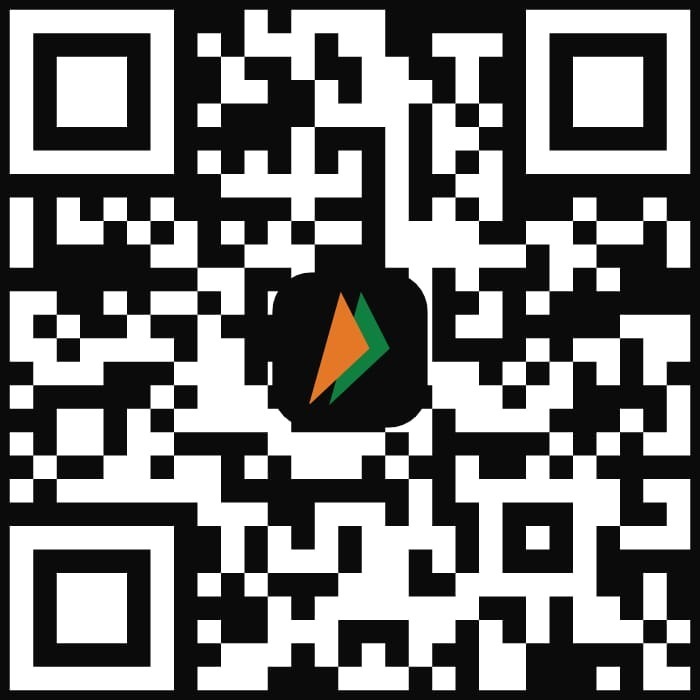
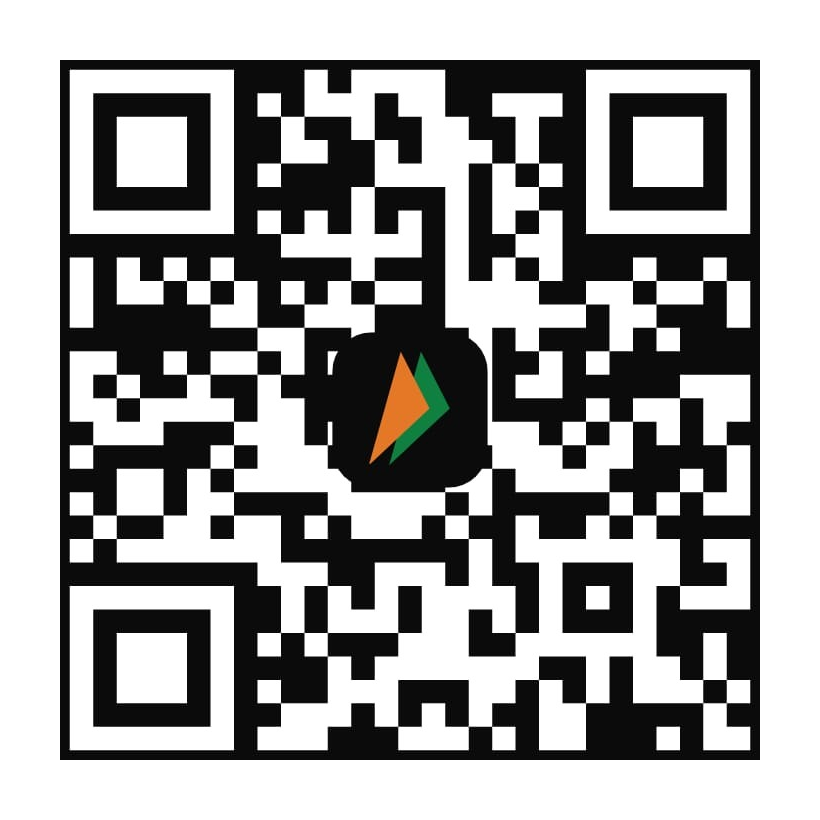
feat: in-bot payment & QR management, removed warning text, added QR padding

diff --git a/handlers/admin.py b/handlers/admin.py
@@ -7,6 +7,7 @@ from aiogram.types import CallbackQuery, Message
 from aiogram.filters import Command
 from aiogram.fsm.context import FSMContext
 from aiogram.exceptions import TelegramForbiddenError, TelegramBadRequest, TelegramRetryAfter
+from PIL import Image, ImageOps
 from config import config
 from database import (
     approve_order,
@@ -21,13 +22,16 @@ from database import (
     toggle_service_status,
     delete_service,
     get_all_users,
-    get_connection
+    get_connection,
+    get_setting,
+    set_setting
 )
-from states.order_states import AddServiceFlow, EditServiceFlow, BroadcastFlow
+from states.order_states import AddServiceFlow, EditServiceFlow, BroadcastFlow, EditPaymentFlow
 from keyboards.admin_keyboards import (
     get_admin_verification_keyboard,
     get_admin_rejection_reasons_keyboard,
     get_admin_dashboard_keyboard,
+    get_payment_settings_keyboard,
     get_services_management_keyboard,
     get_service_actions_keyboard,
     get_broadcast_confirm_keyboard,
@@ -245,12 +249,14 @@ async def handle_admin_panel(message: Message, state: FSMContext):
         await message.reply("⛔ You are not authorized to access the admin panel.")
         return
 
+    upi_id = await get_setting("upi_id", config.UPI_ID)
     text = (
         "🛠 **ADMIN CONTROL DASHBOARD**\n"
         "━━━━━━━━━━━━━━━━━━━━\n"
-        "Manage your services, change pricing or delivery content, "
-        "send broadcasts to all users, or view real-time revenue stats.\n\n"
-        "👇 **Select an action below:**"
+        f"📲 **Current Active UPI:** `{upi_id}`\n\n"
+        "👇 **Select an option to manage:**\n"
+        "1⃣ **Payment Method & QR Code** — Change UPI ID or QR image\n"
+        "2⃣ **Services Catalog** — Add/edit services, pricing & delivery links"
     )
     await message.reply(text, reply_markup=get_admin_dashboard_keyboard(), parse_mode="Markdown")
 
@@ -262,14 +268,163 @@ async def nav_dashboard(query: CallbackQuery, state: FSMContext):
         return
 
     await query.answer()
+    upi_id = await get_setting("upi_id", config.UPI_ID)
     text = (
         "🛠 **ADMIN CONTROL DASHBOARD**\n"
         "━━━━━━━━━━━━━━━━━━━━\n"
-        "Manage your services, change pricing or delivery content, "
-        "send broadcasts to all users, or view real-time revenue stats.\n\n"
-        "👇 **Select an action below:**"
+        f"📲 **Current Active UPI:** `{upi_id}`\n\n"
+        "👇 **Select an option to manage:**\n"
+        "1⃣ **Payment Method & QR Code** — Change UPI ID or QR image\n"
+        "2⃣ **Services Catalog** — Add/edit services, pricing & delivery links"
     )
     await query.message.edit_text(text, reply_markup=get_admin_dashboard_keyboard(), parse_mode="Markdown")
+
+# ==========================================
+# PAYMENT SETTINGS MANAGEMENT (UPI & QR)
+# ==========================================
+
+@admin_router.callback_query(F.data == "admin_nav:payment_settings")
+async def nav_payment_settings(query: CallbackQuery, state: FSMContext):
+    await state.clear()
+    if not is_admin_authorized(query.from_user.id):
+        await query.answer("⛔ Unauthorized", show_alert=True)
+        return
+
+    await query.answer()
+    upi_id = await get_setting("upi_id", config.UPI_ID)
+    upi_name = await get_setting("upi_name", config.UPI_NAME)
+    qr_path = await get_setting("qr_image_path", config.QR_IMAGE_PATH)
+    qr_exists = "✅ File Active" if os.path.exists(qr_path) else "⚠ File Missing"
+
+    text = (
+        "💳 **PAYMENT METHODS & QR SETTINGS**\n"
+        "━━━━━━━━━━━━━━━━━━━━\n"
+        f"📲 **UPI ID:** `{upi_id}`\n"
+        f"👤 **Payee Name:** {upi_name}\n"
+        f"🖼 **QR Image:** {qr_exists} (`{qr_path}`)\n"
+        "━━━━━━━━━━━━━━━━━━━━\n"
+        "Select what you want to update:"
+    )
+    await query.message.edit_text(text, reply_markup=get_payment_settings_keyboard(), parse_mode="Markdown")
+
+@admin_router.callback_query(F.data == "admin_pay:change_upi")
+async def start_change_upi(query: CallbackQuery, state: FSMContext):
+    if not is_admin_authorized(query.from_user.id):
+        await query.answer("⛔ Unauthorized", show_alert=True)
+        return
+
+    await state.set_state(EditPaymentFlow.waiting_for_upi_id)
+    await query.answer()
+    text = (
+        "🔄 **CHANGE UPI ID**\n"
+        "━━━━━━━━━━━━━━━━━━━━\n"
+        "Please send the new UPI ID (e.g. `yourname@okhdfcbank` or `9876543210@upi`):"
+    )
+    await query.message.edit_text(text, reply_markup=get_cancel_admin_flow_keyboard(), parse_mode="Markdown")
+
+@admin_router.message(EditPaymentFlow.waiting_for_upi_id, F.text)
+async def finish_change_upi(message: Message, state: FSMContext):
+    new_upi = message.text.strip()
+    if "@" not in new_upi or len(new_upi) < 5:
+        await message.reply("⚠ Invalid UPI ID format. It should look like `username@bank` or `number@upi`. Please try again:")
+        return
+
+    await set_setting("upi_id", new_upi)
+    config.UPI_ID = new_upi
+
+    # Persist to .env if present
+    try:
+        if os.path.exists(".env"):
+            with open(".env", "r", encoding="utf-8") as f:
+                env_text = f.read()
+            if "UPI_ID=" in env_text:
+                env_text = re.sub(r"UPI_ID=.*", f"UPI_ID={new_upi}", env_text)
+            else:
+                env_text += f"\nUPI_ID={new_upi}\n"
+            with open(".env", "w", encoding="utf-8") as f:
+                f.write(env_text)
+    except Exception as e:
+        print(f"Could not update .env with new UPI_ID: {e}")
+
+    await state.clear()
+    await message.reply(
+        f"✅ **UPI ID updated successfully!**\nNew UPI ID: `{new_upi}`\n\nAll future customer orders will now display this UPI ID.",
+        reply_markup=get_admin_dashboard_keyboard(),
+        parse_mode="Markdown"
+    )
+
+@admin_router.callback_query(F.data == "admin_pay:change_name")
+async def start_change_name(query: CallbackQuery, state: FSMContext):
+    if not is_admin_authorized(query.from_user.id):
+        await query.answer("⛔ Unauthorized", show_alert=True)
+        return
+
+    await state.set_state(EditPaymentFlow.waiting_for_payee_name)
+    await query.answer()
+    text = (
+        "👤 **CHANGE PAYEE / MERCHANT NAME**\n"
+        "━━━━━━━━━━━━━━━━━━━━\n"
+        "Please send the new Payee Name (e.g. `My Store` or `John Doe`):"
+    )
+    await query.message.edit_text(text, reply_markup=get_cancel_admin_flow_keyboard(), parse_mode="Markdown")
+
+@admin_router.message(EditPaymentFlow.waiting_for_payee_name, F.text)
+async def finish_change_name(message: Message, state: FSMContext):
+    new_name = message.text.strip()
+    await set_setting("upi_name", new_name)
+    config.UPI_NAME = new_name
+    await state.clear()
+    await message.reply(
+        f"✅ **Payee Name updated successfully!**\nNew Name: **{new_name}**",
+        reply_markup=get_admin_dashboard_keyboard(),
+        parse_mode="Markdown"
+    )
+
+@admin_router.callback_query(F.data == "admin_pay:change_qr")
+async def start_change_qr(query: CallbackQuery, state: FSMContext):
+    if not is_admin_authorized(query.from_user.id):
+        await query.answer("⛔ Unauthorized", show_alert=True)
+        return
+
+    await state.set_state(EditPaymentFlow.waiting_for_qr_photo)
+    await query.answer()
+    text = (
+        "🖼 **UPLOAD NEW QR CODE IMAGE**\n"
+        "━━━━━━━━━━━━━━━━━━━━\n"
+        "Please send the new QR code image as a **photo** in this chat.\n\n"
+        "✨ *Note: The bot will automatically add clean white edge padding so no corners or edges get cut off on mobile screens.*"
+    )
+    await query.message.edit_text(text, reply_markup=get_cancel_admin_flow_keyboard(), parse_mode="Markdown")
+
+@admin_router.message(EditPaymentFlow.waiting_for_qr_photo, F.photo)
+async def finish_change_qr(message: Message, state: FSMContext, bot: Bot):
+    photo = message.photo[-1]
+    temp_path = "assets/qr_temp_download.png"
+    final_path = "assets/qr_code.png"
+
+    os.makedirs("assets", exist_ok=True)
+    await bot.download(photo, destination=temp_path)
+
+    try:
+        # Open and apply 60px edge padding to prevent Telegram corner cut-off
+        img = Image.open(temp_path).convert("RGB")
+        padded = ImageOps.expand(img, border=60, fill="white")
+        padded.save(final_path)
+        if os.path.exists(temp_path):
+            os.remove(temp_path)
+
+        await set_setting("qr_image_path", final_path)
+        await state.clear()
+
+        await message.reply(
+            "✅ **QR Code image updated successfully!**\n\n"
+            "Clean edge padding has been applied to ensure clear scannability on all devices. "
+            "All new customer payment orders will now display this QR code image.",
+            reply_markup=get_admin_dashboard_keyboard(),
+            parse_mode="Markdown"
+        )
+    except Exception as e:
+        await message.reply(f"⚠ Failed to process image: {e}. Please try uploading again:")
 
 @admin_router.callback_query(F.data == "admin_nav:close")
 async def nav_close(query: CallbackQuery, state: FSMContext):

diff --git a/handlers/payment.py b/handlers/payment.py
@@ -6,7 +6,7 @@ from aiogram import Router, F, Bot
 from aiogram.types import Message, CallbackQuery, FSInputFile
 from aiogram.fsm.context import FSMContext
 from config import config
-from database import get_service, create_order, check_utr_exists, submit_order_proof, get_order
+from database import get_service, create_order, check_utr_exists, submit_order_proof, get_order, get_setting
 from states.order_states import OrderFlow
 from keyboards.user_keyboards import get_cancel_order_keyboard, get_main_menu_keyboard
 from keyboards.admin_keyboards import get_admin_verification_keyboard
@@ -34,22 +34,24 @@ async def handle_buy_service(query: CallbackQuery, state: FSMContext, bot: Bot):
     await state.set_state(OrderFlow.waiting_for_screenshot)
     await state.update_data(order_id=order_id, service_id=service_id, price=service["price_inr"])
 
+    upi_id = await get_setting("upi_id", config.UPI_ID)
+    upi_name = await get_setting("upi_name", config.UPI_NAME)
+    qr_path = await get_setting("qr_image_path", config.QR_IMAGE_PATH)
+
     caption = (
         f"🧾 **Order Generated:** `#{order_id}`\n\n"
         f"📌 **Service:** {service['title']}\n"
         f"💰 **Amount to Pay:** `₹{service['price_inr']:.0f}`\n\n"
-        f"📲 **UPI ID:** `{config.UPI_ID}` *(Tap to copy)*\n"
-        f"👤 **Payee Name:** {config.UPI_NAME}\n\n"
+        f"📲 **UPI ID:** `{upi_id}` *(Tap to copy)*\n"
+        f"👤 **Payee Name:** {upi_name}\n\n"
         "━━━━━━━━━━━━━━━━━━━━\n"
         "📝 **Payment Steps:**\n"
         "1. Scan the QR code above or pay to the UPI ID.\n"
         "2. Complete the payment of exact amount in your UPI app.\n"
         "3. Take a screenshot of the successful payment screen.\n"
-        "4. **Upload the screenshot here as a photo.**\n\n"
-        "⚠ *Do not send fake or old screenshots. All UTR numbers are verified.*"
+        "4. **Upload the screenshot here as a photo.**"
     )
 
-    qr_path = config.QR_IMAGE_PATH
     cancel_kb = get_cancel_order_keyboard(order_id)
 
     if os.path.exists(qr_path):

diff --git a/database.py b/database.py
@@ -56,7 +56,21 @@ async def init_db() -> None:
         CREATE INDEX IF NOT EXISTS idx_orders_utr ON orders(utr);
         CREATE INDEX IF NOT EXISTS idx_orders_user ON orders(user_id);
         CREATE INDEX IF NOT EXISTS idx_orders_status ON orders(status);
+
+        CREATE TABLE IF NOT EXISTS settings (
+            key TEXT PRIMARY KEY,
+            value TEXT
+        );
         """)
+
+        # Seed initial payment settings if not present
+        default_settings = {
+            "upi_id": config.UPI_ID,
+            "upi_name": config.UPI_NAME,
+            "qr_image_path": config.QR_IMAGE_PATH
+        }
+        for k, v in default_settings.items():
+            await conn.execute("INSERT OR IGNORE INTO settings (key, value) VALUES (?, ?)", (k, str(v)))
 
         # Check if services table is empty; if so, populate with default services
         async with conn.execute("SELECT COUNT(*) as count FROM services") as cursor:
@@ -299,4 +313,26 @@ async def delete_service(service_id: str) -> bool:
         cursor = await conn.execute("DELETE FROM services WHERE service_id = ?", (service_id,))
         await conn.commit()
         return cursor.rowcount > 0
+
+async def get_setting(key: str, default: Optional[str] = None) -> str:
+    """Retrieve dynamic setting value (e.g. upi_id, upi_name, qr_image_path)."""
+    async with get_connection() as conn:
+        async with conn.execute("SELECT value FROM settings WHERE key = ?", (key,)) as cur:
+            row = await cur.fetchone()
+            if row and row["value"]:
+                return row["value"]
+            return default or ""
+
+async def set_setting(key: str, value: str) -> None:
+    """Insert or update dynamic setting value."""
+    async with get_connection() as conn:
+        await conn.execute(
+            """
+            INSERT INTO settings (key, value) VALUES (?, ?)
+            ON CONFLICT(key) DO UPDATE SET value = excluded.value
+            """,
+            (key, str(value))
+        )
+        await conn.commit()
+
 

diff --git a/keyboards/admin_keyboards.py b/keyboards/admin_keyboards.py
@@ -30,16 +30,27 @@ def get_admin_rejection_reasons_keyboard(order_id: str) -> InlineKeyboardMarkup:
 def get_admin_dashboard_keyboard() -> InlineKeyboardMarkup:
     buttons = [
         [
-            InlineKeyboardButton(text="📋 Manage Services", callback_data="admin_nav:services"),
-            InlineKeyboardButton(text="➕ Add Service", callback_data="admin_nav:add_service")
+            InlineKeyboardButton(text="💳 1. Change Payment Method / QR", callback_data="admin_nav:payment_settings")
         ],
         [
-            InlineKeyboardButton(text="📢 Broadcast Message", callback_data="admin_nav:broadcast"),
-            InlineKeyboardButton(text="📊 View Stats", callback_data="admin_nav:stats")
+            InlineKeyboardButton(text="📋 2. Manage Services Catalog", callback_data="admin_nav:services")
+        ],
+        [
+            InlineKeyboardButton(text="📢 Broadcast", callback_data="admin_nav:broadcast"),
+            InlineKeyboardButton(text="📊 Stats", callback_data="admin_nav:stats")
         ],
         [
             InlineKeyboardButton(text="❌ Close Menu", callback_data="admin_nav:close")
         ]
+    ]
+    return InlineKeyboardMarkup(inline_keyboard=buttons)
+
+def get_payment_settings_keyboard() -> InlineKeyboardMarkup:
+    buttons = [
+        [InlineKeyboardButton(text="🔄 Change UPI ID", callback_data="admin_pay:change_upi")],
+        [InlineKeyboardButton(text="🖼 Upload New QR Code Image", callback_data="admin_pay:change_qr")],
+        [InlineKeyboardButton(text="👤 Change Payee Name", callback_data="admin_pay:change_name")],
+        [InlineKeyboardButton(text="◀ Back to Admin Menu", callback_data="admin_nav:dashboard")]
     ]
     return InlineKeyboardMarkup(inline_keyboard=buttons)
 

diff --git a/tests/test_db.py b/tests/test_db.py
@@ -153,5 +153,19 @@ class TestPaymentBotDatabase(unittest.IsolatedAsyncioTestCase):
         self.assertIn(1003, all_users)
         self.assertGreaterEqual(len(all_users), 3)
 
+    async def test_settings_get_set(self):
+        # Default seeded value
+        upi = await self.db.get_setting("upi_id")
+        self.assertEqual(upi, config.UPI_ID)
+
+        # Update setting
+        await self.db.set_setting("upi_id", "newtest@upi")
+        updated = await self.db.get_setting("upi_id")
+        self.assertEqual(updated, "newtest@upi")
+
+        # Fallback default
+        val = await self.db.get_setting("non_existent_key", default="fallback")
+        self.assertEqual(val, "fallback")
+
 if __name__ == "__main__":
     unittest.main()

diff --git a/states/order_states.py b/states/order_states.py
@@ -19,3 +19,8 @@ class EditServiceFlow(StatesGroup):
 class BroadcastFlow(StatesGroup):
     waiting_for_content = State()
     waiting_for_confirmation = State()
+
+class EditPaymentFlow(StatesGroup):
+    waiting_for_upi_id = State()
+    waiting_for_qr_photo = State()
+    waiting_for_payee_name = State()
